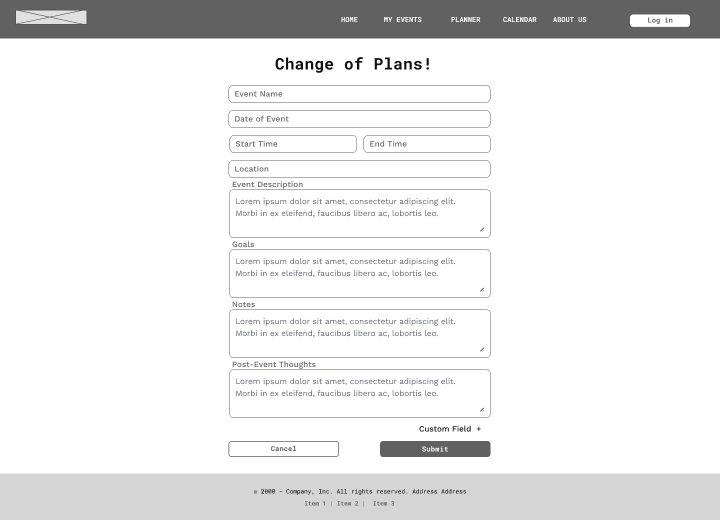
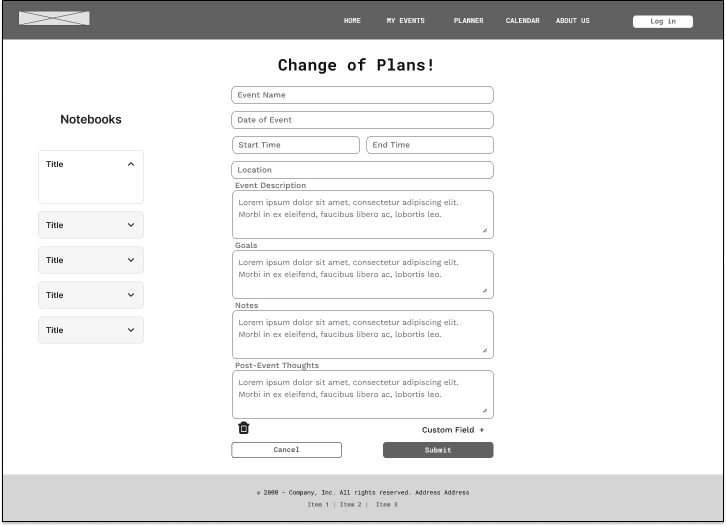
Updating project plan, user stories, and screen design

diff --git a/ProjectPlan.md b/ProjectPlan.md
@@ -20,7 +20,7 @@
 ### Week 5
 - [x] Setup project with Bootstrap & JSTL
 - [x] Create notebook & event tables
-- [x] Notebook & event  beans
+- [x] Notebook & event beans
 - [x] Add Hibernate annotations to notebook & event beans
 - [x] Add notebook & event mappings to Hibernate config
 - [x] Write unit tests for notebook & event classes
@@ -37,89 +37,54 @@
 - [x] Deploy project to AWS
 
 ### Week 7
-- [ ] Create Location table & bean
-- [ ] Create POJO for Google Places Autocomplete (Places & SearchPlaces)
-- [ ] Create places dao & searchPlaces dao 
-- [ ] Map autocomplete response (JSON) to places and searchPlaces objects
 - [x] Create user pool w/ AWS Cognito for user login & signup
 - [x] Setup project with directories, configurations & files for Cognito implementation
 - [x] Setup project to redirect to HTTPS to allow use of Cognito in an Elastic Beanstalk environment
+- [ ] Create Location, goal, reflection, & custom tables & beans
+- [ ] Annotate Location, goal, reflection, & custom beans with Hibernate + mappings
 
 ### Week 8
 - [ ] Setup project with REST app & add classes for managing resources
+- [ ] Create POJO for Google Places Autocomplete (Places & SearchPlaces)
+- [ ] Create places dao & searchPlaces dao
+- [ ] Map autocomplete response (JSON) to places and searchPlaces objects
 - [ ] Create service layer to perform CRUD operations on beans by calling DAO methods
 - [ ] Implement Google Autocomplete places & search places into REST app (front end will retrieve data thru fetch calls)
 - [ ] Test routes with cURL & document successful routes
 
 ### Week 9
+- [ ] Create ApplcationStartup servlet
+- [ ] Place SessionFactory into app startup
 - [ ] Test routes with cURL & document successful routes
 - [ ] Create JS classes for entities
 - [ ] Create fetch.js with generic/reusable methods for performing CRUD operations
 
 ### Week 10
-- [ ] Work on frontend 
+- [ ] Create JSPs
 
 ### Week 11
-- [ ] Work on frontend
+- [ ] Create necessary JS files & logic for event listeners + modifying DOM
 
 ### Week 12
-- [ ] Work on frontend
+- [ ] Work on styling pages 
+- [ ] Work on putting JS files into necessary JSPs
 
 ### Week 13
 - [ ] Work on frontend
+- [ ] Double check files for redundancy, spelling, jdoc
 
 ### Week 14
 - [ ] Work on frontend
+- [ ] Double check files for redundancy, spelling, jdoc
 
 ### Week 15
 - [ ] Work on frontend
+-[ ] Double check files for redundancy, spelling, jdoc
 
 ### Week 16
-- [ ] Work on frontend / complete project<br><br>
-
---- 
-# *Project Files*
-
-### 〚***Servlets***〛
-
-- **ApplicationStartup**<br> 
-Puts SessionFactory, Hibernate config in servlet context / app scope<br><br>
-- **NavigationServlet**<br> 
-handles forwarding navigation items to jsp<br><br>
-- **Login**<br> 
-handles user login or signup<br><br> 
-- **Auth**<br> 
-checks login credentials or signup for accessing site features<br>
-
-### 〚***JSP***〛
-
-- index.jsp<br>
-- login.jsp<br>
-- homepage.jsp<br>
-- add-event.jsp<br>
-- edit-event.jsp<br>
-- delete-event.jsp<br>
-- about-us.jsp<br>
-- error-page.jsp
-
-### 〚***JavaScript***〛
-
-- **fetch.js**<br>
-generic methods for get, post, delete, & put fetch calls<br><br>
-- **notebook.js**<br> 
-notebook class<br><br>
-- **event.js**<br> 
-event class<br><br>
-- **location.js**<br> 
-location class<br><br>
-- **details.js**<br> 
-details class<br><br>
-- **notes.js**<br>
-notes class<br><br>
+- [ ] Double check files for redundancy, spelling, jdoc
+- [ ] Make sure current version of WAR deployed to AWS
+- [ ] complete project<br><br>
 
 
-### 〚***Notes + Things to Look Into / Incorporate***〛
-
-- emailJS | send email directly from code
-- Mockaroo | mock data for database
 

diff --git a/README.md b/README.md
@@ -10,12 +10,23 @@ philosophy, turning challenges like lack of industry experience, location, and c
 entry—into opportunities for innovation. Rather than seeing these limitations as setbacks, DIYers view them as a
 silver lining, using them as fuel to adapt creatively and bring their visions to life. In contrast, larger
 operations with commercial backing or established names follow proven strategies and rules to ensure success, but it’s
-the resourcefulness of the DIY community that drives their unique approach to achieving goals.\
+the resourcefulness of the DIY community that drives their unique approach to achieving goals.
 <br>However, many current event planning tools, such as Eventbrite—the most popular platform—are designed with larger
 commercial entities in mind. While Eventbrite facilitates event planning, its emphasis on client-side interaction,
 ticket sales, reporting analytics (like sales and customer reach/retention), and marketing campaigns does not address
 the primary concerns of DIYers. DIY event planners need tools that help them organize their unique ideas and customize
-the planning process to fit their specific needs, rather than focusing on ticket sales and revenue tracking.<br><br>
+the planning process to fit their specific needs, rather than focusing on ticket sales and revenue tracking.<br>
+
+<details>
+
+<summary>Eventbrite Examples</summary>
+
+![Eventbrite event creation / planning page](/images/eventbrite.png)
+*View of Eventbrite's event builder page*<br><br><br>
+![Eventbrite event creation / planning page](/images/eventbrite_2.png)
+*View of Eventbrite's event builder page*<br>
+
+</details><br>
 
 
 ***Solution:***<br> *DIY Event Visualizer* is a resource designed for the resourceful. It offers a flexible,
@@ -27,65 +38,60 @@ for personalization, it empowers DIY planners to turn their creative visions int
 reality, while overcoming the unique challenges they face without relying on
 traditional, sales-focused tools.<br><br><br>
 
-<details>
-
-<summary>Eventbrite Examples</summary>
-
-![Eventbrite event creation / planning page](/images/eventbrite.png)
-*View of Eventbrite's event builder page*<br><br><br>
-![Eventbrite event creation / planning page](/images/eventbrite_2.png)
-*View of Eventbrite's event builder page*<br>
-</details>
-
 
 
 ### Applied Technologies & Techniques
 
-**Application Server<br>**
+**Application Server**<br><br>
 ◦ Apache Tomcat *v 9.0.99* <br>
 ◦ Servlet/JSP Container
 
-**Amazon Web Services<br>**
+**Amazon Web Services**<br><br>
 ◦ ElasticBeanstalk *(container environment)*<br>
 ◦ Elastic Compute Cloud (EC2)<br>
 ◦ RDS<br>
 ◦ Cognito
 
-**Build Configuration<br>**
+**Build Configuration**<br><br>
 ◦ POM.xml *(project dependencies)*<br>
 ◦ WAR file *(project packaging build)*
 
-**CSS<br>**
+**CSS**<br><br>
 ◦ Bootstrap *v 5.3.3*
 
-**Client-Side Scripting<br>**
+**Client-Side Scripting**<br><br>
 ◦ JavaScript
 
-**Database<br>**
+**Database**<br><br>
 ◦ MySQL *v 8.4.0*
 
-**Dependency Management<br>**
+**Dependency Management**<br><br>
 ◦ Maven
 
-**IDE<br>**
+**IDE**<br><br>
 ◦ IntellJIDEA *2024.3.3* 
 
-**Logging<br>**
+**Logging**<br><br>
 ◦ Log4j2
 
-**ORM<br>**
+**ORM**<br><br>
 ◦ Hibernate *v 6.4.3 final*
 
-**Project Documentation<br>**
+**Design Tools**<br><br>
+◦ Figma<br>
+◦ Wireframes<br>
+◦ EER Diagram
+
+**Project Documentation**<br><br>
 ◦ Markdown
 
-**Runtime Environment<br>**
+**Runtime Environment**<br><br>
 JDK *v 11*
 
-**Unit Testing<br>**
+**Unit Testing**<br><br>
 ◦ Junit | Jupiter *v 4.13.1*
 
-**Version Control<br>**
+**Version Control**<br><br>
 ◦ GitHub *v 2.34.1*
 
 **Virtual Machine**<br>

diff --git a/DesignFiles.md b/DesignFiles.md
@@ -16,37 +16,81 @@
 <summary>Screen Design</summary>
 
 ***Landing Page***
-![Event Visualizer landing page with sign in and sign up options](/images/landing_page.png)<br><br><br><br>
-
-***Log In*** (AWS)<br>
-![Log in modal with username and password fields](/images/screens/login.png)<br><br><br><br>
-
-***User Sign Up*** (AWS)<br>
-![Sign up modal with personal information fields](/images/screens/user_sign_up.png)<br><br><br><br>
+![Event Visualizer landing page with sign in and sign up options](images/screens/landing_page.png)<br><br><br><br>
 
 ***Homepage***<br>
-![Event Visualizer homepage with a video display](/images/homepage.png)<br><br><br><br>
+![Event Visualizer homepage with a video display](images/screens/homepage.png)<br><br><br><br>
 
 ***View All Events***<br>
-![View all events screen](/images/view_my_events.png)<br><br><br><br>
-
-***Edit Event***<br>
-![Edit events screen](/images/edit_event.png)<br><br><br><br>
-
-***Confirm Changes to Details***<br>
-![Confirm editing changes screen](/images/confirm_changes.png)<br><br><br><br>
-
-***Delete Event Confirmation***<br>
-![Delete evebt confirmation page](/images/delete_event.png)<br><br><br><br>
-
-
-***Choose Destination for New Event***<br>
-![Choose notebook for event screen](/images/add_event_notebook.png)<br><br><br><br>
+![View all events screen](/images/screens/view_my_events.png)<br><br><br><br>
 
 ***Create New Event***<br>
-![Create new event screen](/images/create_new_event.png)<br><br><br><br>
+![Create new event screen](/images/screens/add_event.png)<br><br><br><br>
+
+***Edit Event***<br>
+![Edit events screen](/images/screens/edit_event.png)<br><br><br><br>
+
+***Events Calendar***<br>
+![Sign up modal with personal information fields](/images/screens/events_calendar.png)<br><br><br><br>
 
 ***About Us***<br>
-![About us screen](/images/about_us.png)<br><br><br><br>
+![About us screen](/images/screens/about_us.png)<br><br><br><br>
+
+***Choose Destination for New Event***<br>
+![Choose notebook for event screen](/images/screens/custom_field.png)<br><br><br><br>
+
+***Confirm Changes to Details***<br>
+![Confirm editing changes screen](/images/screens/confirm_changes.png)<br><br><br><br>
+
+</details>
+
+<details>
+
+<summary>Project File Structure</summary>
+
+### 〚***Servlets***〛
+
+- **ApplicationStartup**<br>
+  Puts SessionFactory, Hibernate config in servlet context / app scope<br><br>
+- **NavigationServlet**<br>
+  handles forwarding navigation items to jsp<br><br>
+- **Login**<br>
+  handles user login or signup<br><br>
+- **Auth**<br>
+  checks login credentials or signup for accessing site features<br>
+
+### 〚***JSP***〛
+
+- index.jsp<br>
+- login.jsp<br>
+- homepage.jsp<br>
+- add-event.jsp<br>
+- edit-event.jsp<br>
+- delete-event.jsp<br>
+- about-us.jsp<br>
+- calendar.jsp<br>
+-
+- error-page.jsp
+
+### 〚***JavaScript***〛
+
+- **fetch.js**<br>
+  generic methods for get, post, delete, & put fetch calls<br><br>
+- **notebook.js**<br>
+  notebook class<br><br>
+- **event.js**<br>
+  event class<br><br>
+- **location.js**<br>
+  location class<br><br>
+- **details.js**<br>
+  details class<br><br>
+- **notes.js**<br>
+  notes class<br><br>
+
+
+### 〚***Notes + Things to Look Into / Incorporate***〛
+
+- emailJS | send email directly from code
+- Mockaroo | mock data for database
 
 </details>

diff --git a/UserStories.md b/UserStories.md
@@ -4,15 +4,31 @@
 
 ***Sign In*** ★<br> As a registered user, I want to log in to access services the site offers.
 
-***View Events*** ★<br> As a signed-in user, I want to view details for my stored events.
+***View Events*** ★<br> As a logged-in user, I want to view details for my stored events.
 
-***Edit Events*** ★<br>As a signed-in user, I want to edit details for my events.
+***Edit Events*** ★<br>As a logged-in user, I want to edit details for my events.
 
-***Add Event*** ★<br>As a signed-in user, I want to create a new event and store my plans.
+***Add Event*** ★<br>As a logged-in user, I want to create a new event and store my plans.
 
-***Delete Event*** ★<br>As a signed-in user, I want to have the option to delete events I have stored.
+***Delete Event*** ★<br>As a logged-in user, I want to have the option to delete events I have stored.
+
+***Custom Field***<br>As a logged-in user, I want the ability for my plans to be efficient yet flexible. Expectations, 
+necessities, details, and requirements are often very dependent on the event. I want the option to add custom fields 
+so my plans can be designed specifically for an event.<br>
+
+***Undo Plans***<br> As a logged-in user, I want to easily undo / remove any unwanted custom fields 
+without loosing progress or having to start over.
+
+***Ask for Confirmation***<br> As a logged-in user, If I'm editing my plans I don't want to risk loosing plans 
+if I forget to save before leaving the page or mistakenly delete wanted plans.
+
+***Edit Plans On the Fly***<br> As a logged-in user, I want to be able to make changes without leaving the page when 
+viewing my events.
 
 ***About<br>*** As any user, I want to be able to learn more about the site + mission statement or find contact information
 for inquiries.<br>
+
+***Retrieve Credentials***<br> As a registered user, I want to be able to retrieve or change my password if it's no longer
+stored, or I forget.
 
 ★ *Specifies MVP* 
